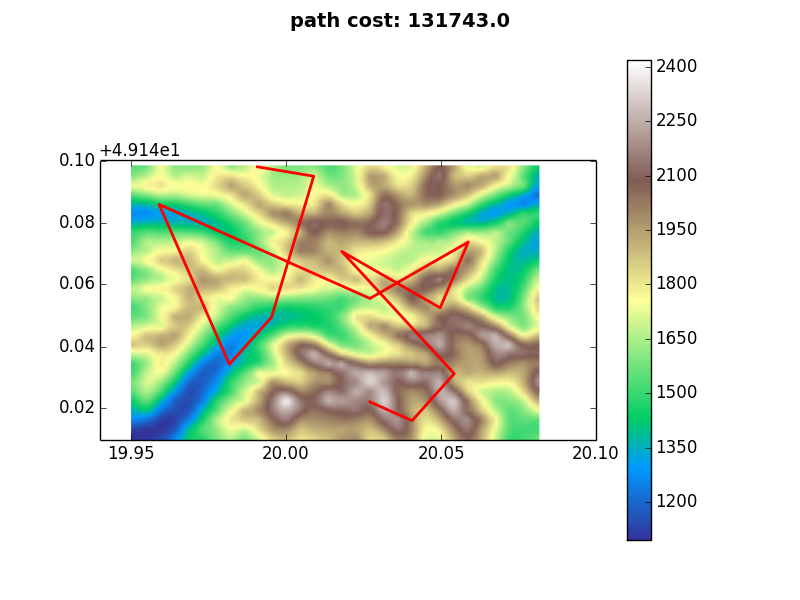
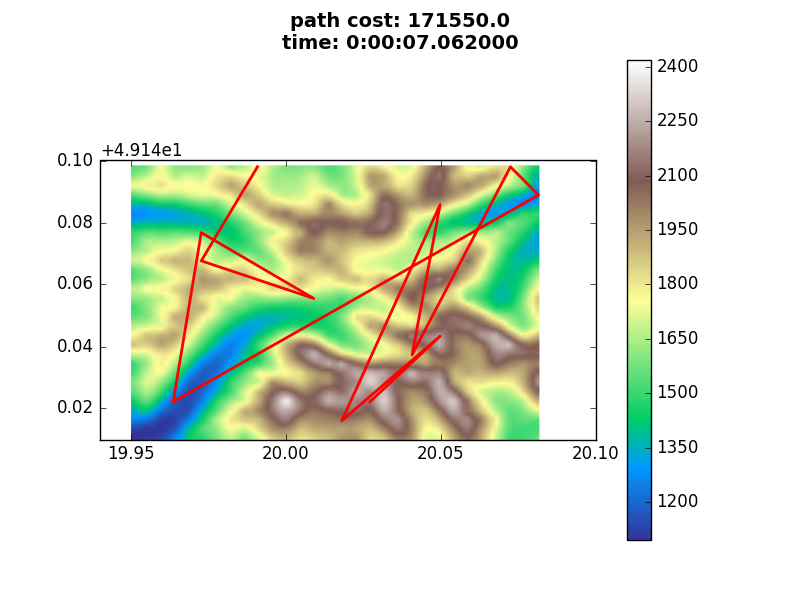
Added main

diff --git a/algorithm/adaptation.py b/algorithm/adaptation.py
@@ -4,6 +4,7 @@ import scipy.interpolate
 import random
 import sys
 import yaml
+from datetime import datetime
 
 from cost import cost as costNorm
 import annealing
@@ -38,7 +39,7 @@ def calculateTotalCost(path, elevationFn):
     for i in xrange(len(path) - 1):
         total_cost += costNorm(path[i][0], path[i][1], elevationFn(path[i][0], path[i][1]),
                                path[i + 1][0], path[i + 1][1], elevationFn(path[i + 1][0], path[i + 1][1]))
-        print total_cost
+        # print total_cost
 
     return total_cost
 
@@ -62,7 +63,7 @@ def generatePoints(start, end, parts):
     step_y = diff_y/parts
     return points[:1] + [(start[0] + step_x * i, start[1] + step_y * i) for i in range(parts)] + points[1:]
 
-def drawPlot(filename, points, x, y, z, mesh, totalCost):
+def drawPlot(filename, points, x, y, z, mesh, totalCost, elapsed=0):
     xx, yy = zip(*points)
     plt.imshow(mesh, vmin=np.array(z).min(), vmax=np.array(z).max(), origin='lower',
                extent=[np.array(x).min(), np.array(x).max(), np.array(y).min(), np.array(y).max()], cmap='terrain')
@@ -70,7 +71,8 @@ def drawPlot(filename, points, x, y, z, mesh, totalCost):
     plt.colorbar()
 
 
-    text = 'path cost: ' + str(totalCost) + '\n'
+    text = 'path cost: ' + str(totalCost) + '\n' \
+           + 'time: ' + str(elapsed)
     plt.suptitle(text, fontsize=14, fontweight='bold')
     plt.savefig(filename + '.png')
     plt.close()
@@ -79,9 +81,10 @@ def drawPlot(filename, points, x, y, z, mesh, totalCost):
 
 
 
-if __name__ == "__main__":
+def adaptation_path(configfile):
+    start_time = datetime.now()
     config = None
-    with open(sys.argv[1], 'r') as stream:
+    with open(configfile, 'r') as stream:
         config = yaml.load(stream)
 
     x, y, z = [], [], []
@@ -100,11 +103,14 @@ if __name__ == "__main__":
 
     pathCost = calculateTotalCost(points, getElevation)
 
-    drawPlot('random_path', points, x, y, z, mesh, calculateTotalCost(points, getElevation))
+    elapsed = datetime.now() - start_time
+
+    drawPlot('random_path', points, x, y, z, mesh, calculateTotalCost(points, getElevation), elapsed)
     tsp = annealing.TSP(points, getElevation, calculateTotalCost)
     tsp.steps = 5000
     state, e = tsp.anneal()
 
+    elapsed = datetime.now() - start_time
 
-    drawPlot('optimized_path', state, x, y, z, mesh, calculateTotalCost(state, getElevation))
+    drawPlot('optimized_path', state, x, y, z, mesh, calculateTotalCost(state, getElevation), elapsed)
 

diff --git a/algorithm/graph.py b/algorithm/graph.py
@@ -5,18 +5,17 @@ import dijkstra as d
 import numpy as np
 import matplotlib.pyplot as plt
 import scipy.interpolate
-
-res = 30
+import os
 
 def cost(frm, to):
     return costNorm(frm.lon, frm.lat, frm.ele, to.lon, to.lat, to.ele)
 
-if __name__ == '__main__':
+def graph_path(frm, to, res):
     start_time = datetime.now()
 
     g = d.Graph()
 
-    filename = 'data/data'+str(res)+'.csv'
+    filename = os.getcwd()+'/data/data'+str(res)+'.csv'
     with open(filename, 'r') as file:
         count = 0
         for line in file.readlines():
@@ -33,13 +32,10 @@ if __name__ == '__main__':
                 if node % res != (res-1):
                     g.add_edge(node, node + 1, cost(g.get_vertex(node), g.get_vertex(node + 1)))
 
-    # for v in g:
-    #     print v
+    start = frm
+    stop = to
 
-    start = 880
-    stop = 138
-
-    origin = g.get_vertex(start)
+    # origin = g.get_vertex(start)
     target = g.get_vertex(stop)
 
     d.dijkstra(g, g.get_vertex(start))
@@ -48,11 +44,8 @@ if __name__ == '__main__':
     print 'The shortest path : %s' % (path[::-1])
     print 'total cost: ' + str(target.distance)
 
-    # for v in g:
-    #     print v
-
-    end_time = datetime.now()
-    print end_time - start_time
+    elapsed = datetime.now() - start_time
+    print elapsed
 
     x = []
     y = []
@@ -77,16 +70,20 @@ if __name__ == '__main__':
     zi = rbf(xi, yi)
     xs = [g.get_vertex(v).lon for v in path]
     ys = [g.get_vertex(v).lat for v in path]
+
+    plt.gcf().canvas.set_window_title('Dijkstra shortest path')
+
     plt.imshow(zi, vmin=z.min(), vmax=z.max(), origin='lower',
                extent=[x.min(), x.max(), y.min(), y.max()], cmap='terrain')
     plt.plot(xs, ys)
+    plt.plot(xs[-1], ys[-1], 'g^')
+    plt.plot(xs[0], ys[0], 'rs')
     plt.colorbar()
 
     text = 'path cost: ' + str(target.distance) + '\n' \
-           + 'start: (' + str(round(origin.lat, 3)) + ', ' + str(round(origin.lon, 3)) + ')' + '\n' \
-           + 'end: (' + str(round(target.lat, 3)) + ', ' + str(round(target.lon, 3)) + ')' + '\n' \
-           + 'path steps: ' + str(len(path))
+           + 'time: ' + str(elapsed)
     plt.suptitle(text, fontsize=14, fontweight='bold')
-
-    plt.show()
+    plt.savefig('graph_path.png')
+    plt.close()
+    # plt.show()
 

diff --git a/main.py b/main.py
@@ -1,0 +1,11 @@
+from algorithm.graph import graph_path
+from algorithm.adaptation import adaptation_path
+
+if __name__ == '__main__':
+
+    res = 30
+    start = 880
+    stop = 138
+
+    graph_path(start, stop, res)
+    adaptation_path('config.yml')
